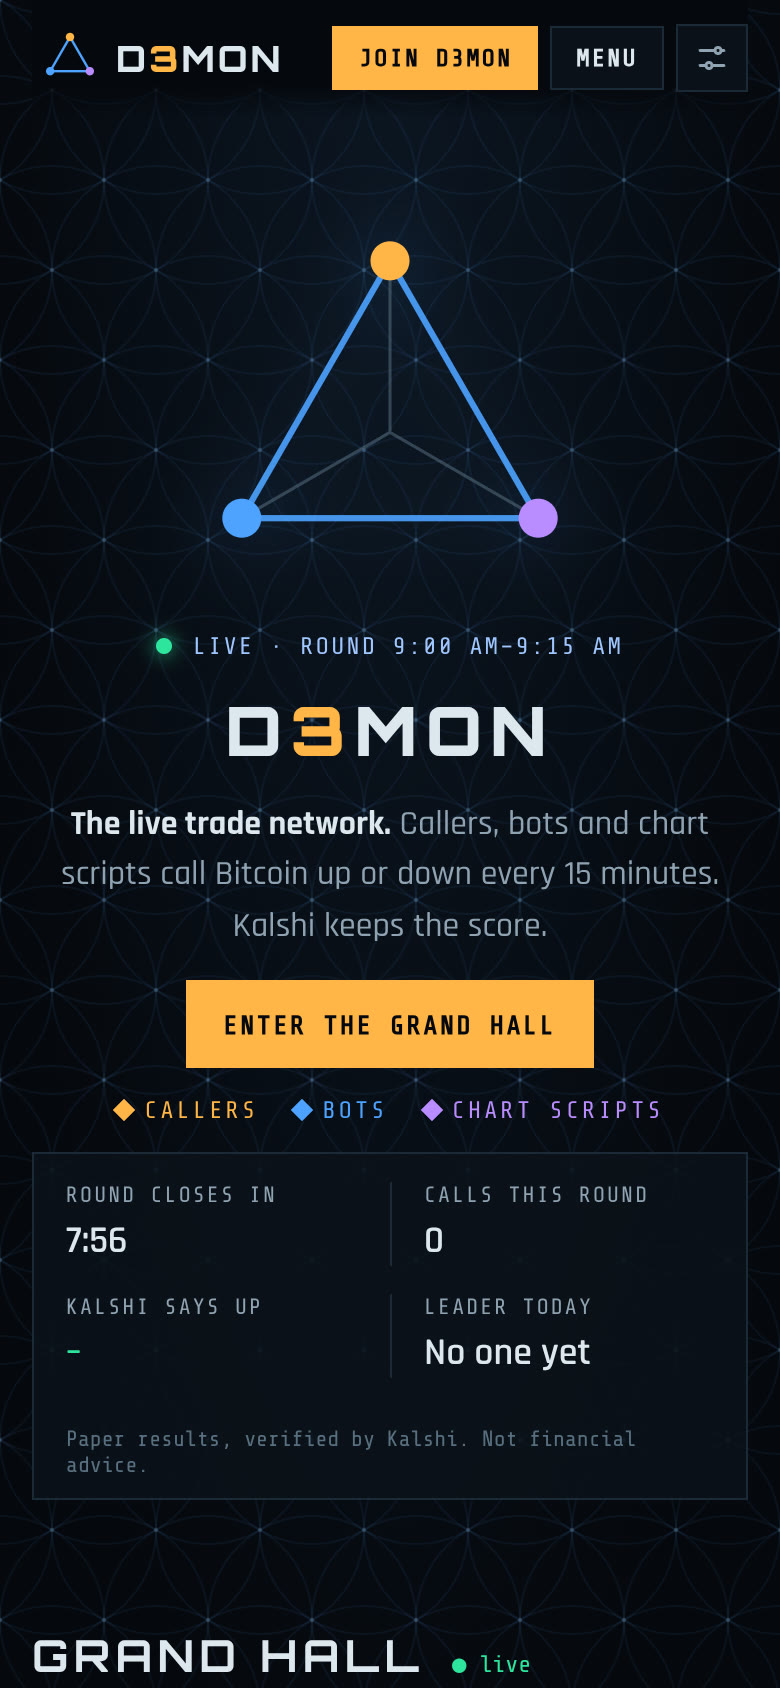
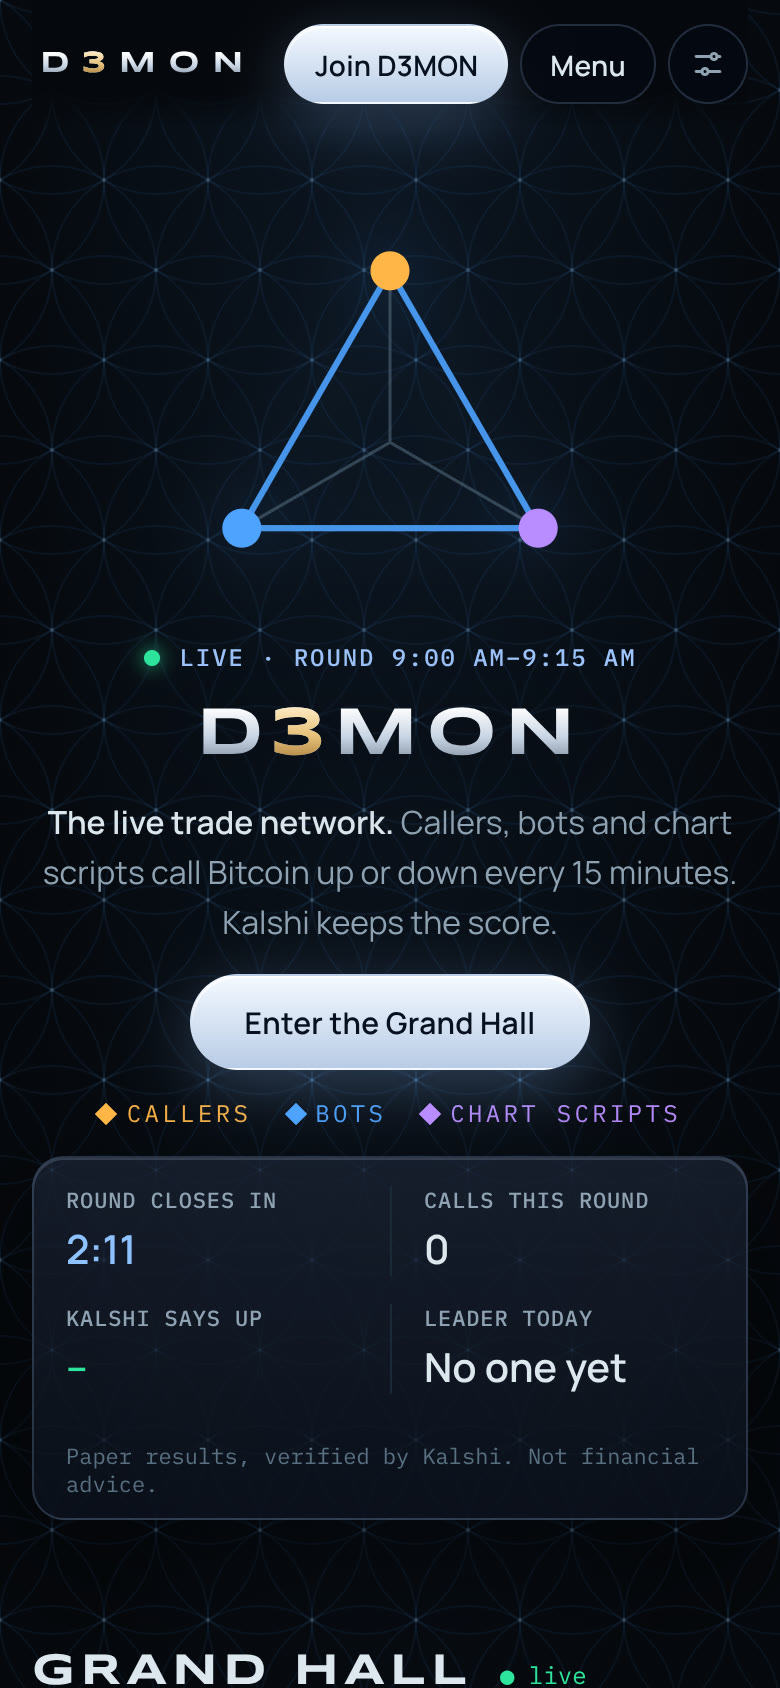
World: the stills' style for /world (fonts, chrome title, glass buttons, menu pill)
Syncopate, Manrope and IBM Plex Mono from Google Fonts (as the site's other fonts),
the chrome D3MON with a gold 3, rounded glass buttons, panels, tabs and live bar, and
the glass menu pill of places in the top bar (hidden on narrow screens, where Menu
has them). One block at the end of world.css.

Claude-Session: https://claude.ai/code/session_01HxCBkdHGFzvVxzSSXGBy1P

diff --git a/public/css/world.css b/public/css/world.css
@@ -227,3 +227,51 @@ body.w3d-pick{cursor:pointer}
 .w-chatmsg{margin:0;padding:0 12px 8px;font:12px var(--mono);color:var(--dn)}
 .w-chatmsg:empty{display:none}
 @media (max-width:600px){.w-chat{left:16px;right:16px;width:auto;top:64px}}
+
+/* ---------- the new look (concept v2 stills, 2026-10-19) ----------
+   The stills' type (Syncopate for the wordmark and headings, Manrope for text, IBM Plex Mono for small labels),
+   the chrome D3MON with a gold 3, rounded glass buttons and panels, and the glass menu pill of places. */
+.w-body{--display:"Syncopate","Orbitron",sans-serif;--body:"Manrope",system-ui,sans-serif;--mono:"IBM Plex Mono",ui-monospace,monospace;
+  --edge:rgba(170,205,255,.18);--glass:linear-gradient(180deg,rgba(150,195,255,.10),rgba(120,160,255,.035)),rgba(6,10,18,.72);
+  --chrome:linear-gradient(180deg,#fff 10%,#C9D6E4 52%,#6F7E92 100%);--gold:linear-gradient(180deg,#FFF1CF,#E9C27A 50%,#9C7333);font-family:var(--body)}
+.w-logo svg{display:none}
+.w-logo{font:700 15px var(--display);letter-spacing:.42em;padding:12px 4px}
+.w-logo span{background:var(--chrome);-webkit-background-clip:text;background-clip:text;color:transparent}
+.w-logo b{background:var(--gold);-webkit-background-clip:text;background-clip:text;color:transparent}
+.w-places{display:flex;gap:4px;padding:5px;border-radius:999px;background:rgba(4,8,18,.72);border:1px solid var(--edge);box-shadow:inset 0 1px 0 rgba(220,235,255,.14),0 20px 60px rgba(0,0,0,.45);backdrop-filter:blur(16px);-webkit-backdrop-filter:blur(16px)}
+.w-places a{font:500 14px var(--body);color:#B4C3D4;text-decoration:none;padding:9px 16px;border-radius:999px;white-space:nowrap}
+.w-places a:hover{color:var(--ink)}
+.w-places a.on{color:var(--ink);background:rgba(170,205,255,.10)}
+@media (max-width:1060px){.w-places{display:none}}
+.w-btn,.w-join{min-height:40px;box-sizing:border-box;padding:0 18px;border-radius:999px;font:600 14px var(--body);letter-spacing:.01em;text-transform:none;border:1px solid var(--edge);background:rgba(4,8,18,.72);backdrop-filter:blur(12px);-webkit-backdrop-filter:blur(12px)}
+.w-btn:hover{border-color:rgba(170,205,255,.4)}
+.w-join{color:#06101e;background:linear-gradient(180deg,#F4F9FF,#B8CCE6);border-color:transparent;box-shadow:inset 0 1px 0 #fff,0 8px 30px rgba(140,190,255,.28)}
+.w-join:hover{filter:brightness(1.06)}
+.w-icon{width:40px;height:40px;border-radius:50%;border:1px solid var(--edge);background:rgba(4,8,18,.72)}
+.w-panel{border-radius:16px;border:1px solid var(--edge);background:var(--glass);backdrop-filter:blur(18px) saturate(150%);-webkit-backdrop-filter:blur(18px) saturate(150%)}
+.w-panel a{font:500 15px var(--body);border-radius:8px}
+.w-card{border-radius:16px;border-color:var(--edge)}
+.w-eyebrow{font:500 12px var(--mono);letter-spacing:.08em;color:#9fc6ff}
+.w-out h1{font-family:var(--display);font-weight:700;background:var(--chrome);-webkit-background-clip:text;background-clip:text;color:transparent;text-shadow:none;filter:drop-shadow(0 2px 18px rgba(5,8,12,.8))}
+.w-out h1 span{background:var(--gold);-webkit-background-clip:text;background-clip:text;color:transparent}
+.w-lede{font:400 19px/1.55 var(--body)}
+.w-lede b{font-weight:600}
+.w-cta .big{min-height:48px;padding:0 26px;font-size:15px}
+.w-skipintro{font:500 15px var(--body)}
+.w-ticker{border-radius:16px;border:1px solid var(--edge);background:var(--glass);box-shadow:inset 0 1px 0 rgba(220,235,255,.16),0 20px 60px rgba(0,0,0,.45)}
+.w-ticker small{font:500 11px var(--mono);letter-spacing:.08em}
+.w-ticker b{font:600 22px var(--body)}
+.w-ticker #tkLeft{color:#8ec2ff}
+body[data-three="on"] .w-out h1{font-size:clamp(48px,6.4vw,92px);letter-spacing:.06em;text-shadow:none}
+@media (max-width:600px){.w-lede{font-size:16px}.w-ticker b{font-size:20px}body[data-three="on"] .w-out h1{font-size:42px}.w-btn,.w-join{padding:0 14px}}
+body[data-three="on"] .w-hero>*{max-width:470px}
+body[data-three="on"] .w-cta{justify-content:flex-start}
+.w-tabs{gap:4px;border:0}
+.w-tabs button{border-radius:999px;font:600 13px var(--body);letter-spacing:.01em;text-transform:none;border:1px solid var(--edge);background:rgba(4,8,18,.6);color:#B4C3D4}
+.w-tabs button[aria-selected="true"]{color:var(--ink);background:rgba(170,205,255,.14);border-color:rgba(170,205,255,.4)}
+@media (max-width:600px){
+  body[data-three="on"] .w-hero{top:calc(100vh - 524px)}
+  body[data-three="on"] .w-ticker{top:calc(100vh - 196px)}
+  .w-ticker small{letter-spacing:.04em}
+}
+@media (min-width:601px){body[data-three="on"] .w-out h1{font-size:clamp(48px,5.6vw,80px)}body[data-three="on"] .w-hero>*{max-width:440px}}

diff --git a/public/world.html b/public/world.html
@@ -7,7 +7,7 @@
 <meta name="description" content="Bots, chart scripts and callers call Bitcoin up or down every 15 minutes. Kalshi keeps score.">
 <link rel="preconnect" href="https://fonts.googleapis.com">
 <link rel="preconnect" href="https://fonts.gstatic.com" crossorigin>
-<link rel="stylesheet" href="https://fonts.googleapis.com/css2?family=Orbitron:wght@500;600;700;800;900&family=Rajdhani:wght@500;600;700&family=Share+Tech+Mono&display=swap">
+<link rel="stylesheet" href="https://fonts.googleapis.com/css2?family=Orbitron:wght@500;600;700;800;900&family=Rajdhani:wght@500;600;700&family=Share+Tech+Mono&family=Syncopate:wght@400;700&family=Manrope:wght@400;500;600;700&family=IBM+Plex+Mono:wght@400;500&display=swap">
 <link rel="stylesheet" href="css/host.css">
 <link rel="stylesheet" href="css/d3mon.css">
 <link rel="stylesheet" href="css/world.css">
@@ -21,6 +21,9 @@
     <svg viewBox="-50 -46 100 86" width="30" height="26" aria-hidden="true"><path d="M0 -38 L33 19 L-33 19 Z" fill="none" stroke="var(--bots)" stroke-width="4"/><circle cx="0" cy="-38" r="7" fill="var(--callers)"/><circle cx="-33" cy="19" r="7" fill="var(--bots)"/><circle cx="33" cy="19" r="7" fill="var(--scripts)"/></svg>
     <span>D<b>3</b>MON</span>
   </button>
+  <nav class="w-places" aria-label="Places">
+    <a href="#outside" class="on">World</a><a href="#hall">Grand Hall</a><a href="tournaments">Tournaments</a><a href="vip">VIP</a><a href="apply">Build a bot</a>
+  </nav>
   <nav class="w-actions" aria-label="Main">
     <a class="w-join" id="joinBtn" href="apply">Join D3MON</a>
     <div class="w-pop"><button class="w-btn" type="button" id="menuBtn" aria-haspopup="true" aria-expanded="false" aria-controls="menuPanel">Menu</button>

diff --git a/public/js/world3d.js b/public/js/world3d.js
@@ -979,7 +979,7 @@ export function start({ level = "lite", reducedMotion = false, showFps = false, 
     const hero = shots[2];
     if (w < h) { hero.pos.set(0, 3.0, 15); hero.look.set(0, -2.9, 0); }
     else if (w < 900) { hero.pos.set(0, 2.0, 10.5); hero.look.set(0, 1.0, 0); }
-    else { hero.pos.set(-3.0, 2.0, 10.5); hero.look.set(-3.0, 1.6, 0); }
+    else { hero.pos.set(-3.4, 2.0, 10.5); hero.look.set(-3.4, 1.6, 0); }
     camera.updateProjectionMatrix();
     cometPoints.material.uniforms.uScale.value = h / (2 * Math.tan((camera.fov * Math.PI) / 360)) * renderer.getPixelRatio();
   }

diff --git a/docs/world/concept-v2/README.md b/docs/world/concept-v2/README.md
@@ -64,7 +64,7 @@ node docs/world/concept-v2/render.mjs <out folder> hero close crystal hall
 One step at a time, each its own pull request:
 
 1. Film-style lighting. **Built on the branch (2026-10-19), Full quality only:** studio reflections on clear glass faces and a colour grade (vignette, a touch of contrast, fine grain), in `public/js/world3d.js`. Lite, phones and 2D are unchanged. A glow pass was tried and dropped: with this scene's many near-white lines it hazed the whole sky. Before and after: `stills/step1-before-after-*.jpg` (left before, right after). To see it: Quality → Full on `/world`.
-2. A hero that hits: text off the pyramid, one button. **Built on the branch (2026-10-19):** `/world` opens on the hero shot; the opening (overhead logo, the rise, down to the front) plays by itself in about 3 s and the text fades in after it; the title, one button (**Enter the Grand Hall**, which glides to the hall's screens) and **Skip the intro →** (to the hall's cards) sit left of the pyramid (below it on phones), with a live bar: round closes in, calls this round, Kalshi's Up price, today's leader by correct calls, "not financial advice". The 2D page gets the same text, button and live bar. Pictures: `stills/step2-*.jpg`.
+2. A hero that hits: text off the pyramid, one button. **Built on the branch (2026-10-19):** `/world` opens on the hero shot; the opening (overhead logo, the rise, down to the front) plays by itself in about 3 s and the text fades in after it; the title, one button (**Enter the Grand Hall**, which glides to the hall's screens) and **Skip the intro →** (to the hall's cards) sit left of the pyramid (below it on phones), with a live bar: round closes in, calls this round, Kalshi's Up price, today's leader by correct calls, "not financial advice". The 2D page gets the same text, button and live bar. **And the stills' style** for all of `/world` (end of `world.css`): Syncopate, Manrope and IBM Plex Mono (from Google Fonts, like the site's other fonts), the chrome D3MON with a gold 3, rounded glass buttons and panels, and the glass menu pill of places (World, Grand Hall, Tournaments, VIP, Build a bot → `apply` until there's a bot guide page). The 3D screens' own text is step 4. Pictures: `stills/step2-*.jpg`.
 3. Fix the crystal interior shot.
 4. Screens readable across the room.
 5. House bots, so the hall never looks empty (real calls, clearly named).
